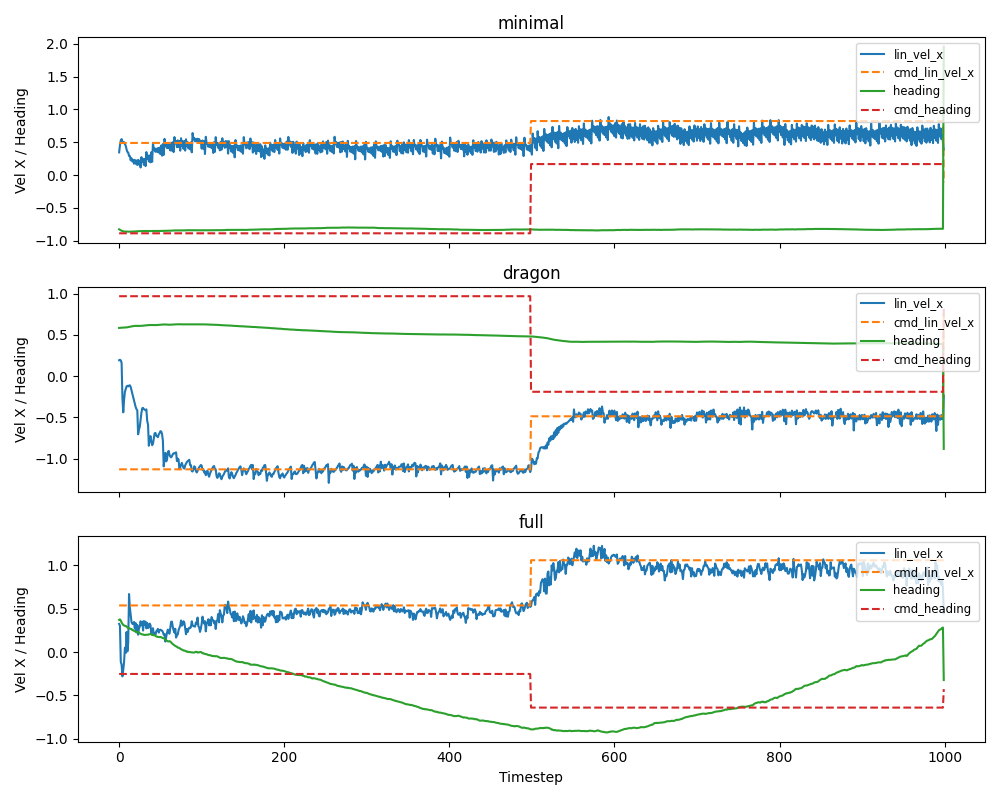
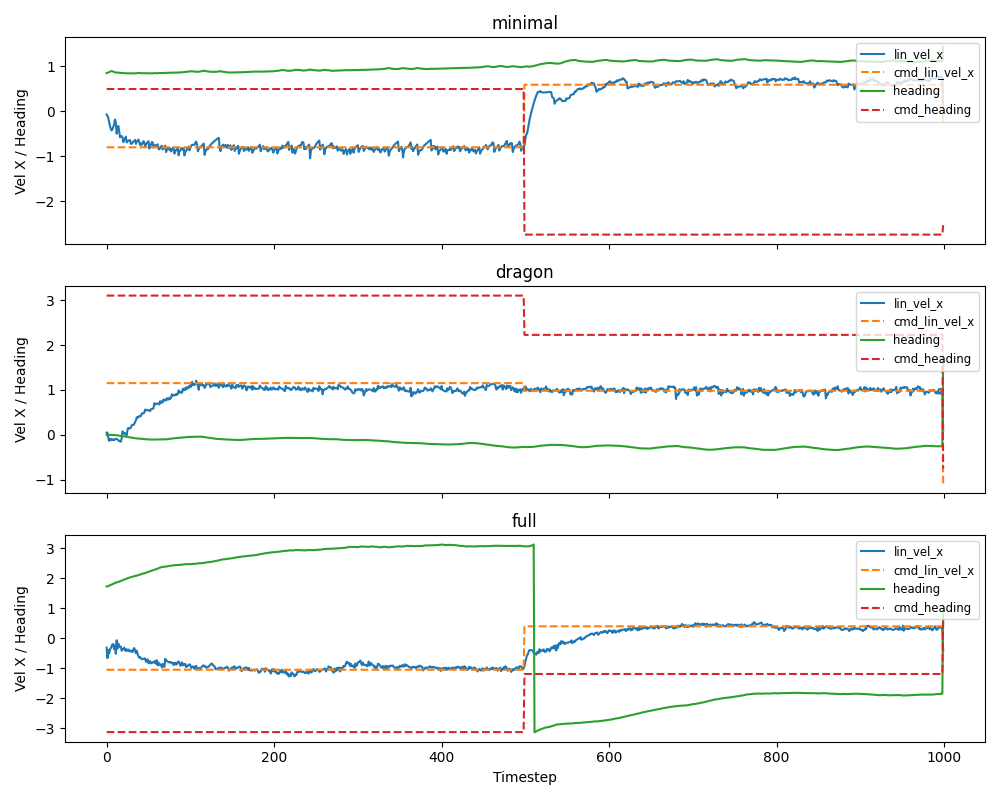
Upload images.

diff --git a/source/moonbot_envs/moonbot_envs/envs/__init__.py b/source/moonbot_envs/moonbot_envs/envs/__init__.py
@@ -12,9 +12,9 @@ gym.register(
     disable_env_checker=True,
     kwargs={
         "env_cfg_entry_point": IntegrationEnvCfg,
-        # "M2oE_entry_point": agents.M2oE_cfg.M2oE_Cfg
+        "M2oE_entry_point": agents.M2oE_cfg.M2oE_Cfg
         # "M2oE_entry_point": agents.Transformer_cfg.Transformer_Cfg
-        "M2oE_entry_point": agents.SharedMLP_cfg.SharedMLP_Cfg
+        # "M2oE_entry_point": agents.SharedMLP_cfg.SharedMLP_Cfg
         # "M2oE_entry_point": agents.JointMLP_cfg.JointMLP_Cfg
     }
 )

diff --git a/M2oE/scripts/play_gate_heatmap.py b/M2oE/scripts/play_gate_heatmap.py
@@ -235,6 +235,7 @@ def main():
     ax.set_xlabel("Modules", fontsize=12)
     ax.set_ylabel("Experts", fontsize=12)
     fig.tight_layout()
+    plt.subplots_adjust(left=0.2)
     plt.savefig(args_cli.heatmap_path)
 
 
